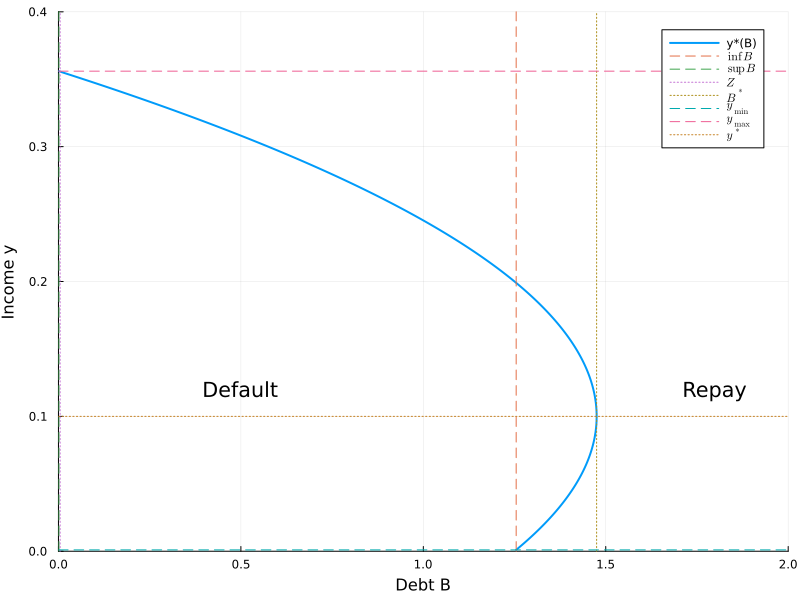
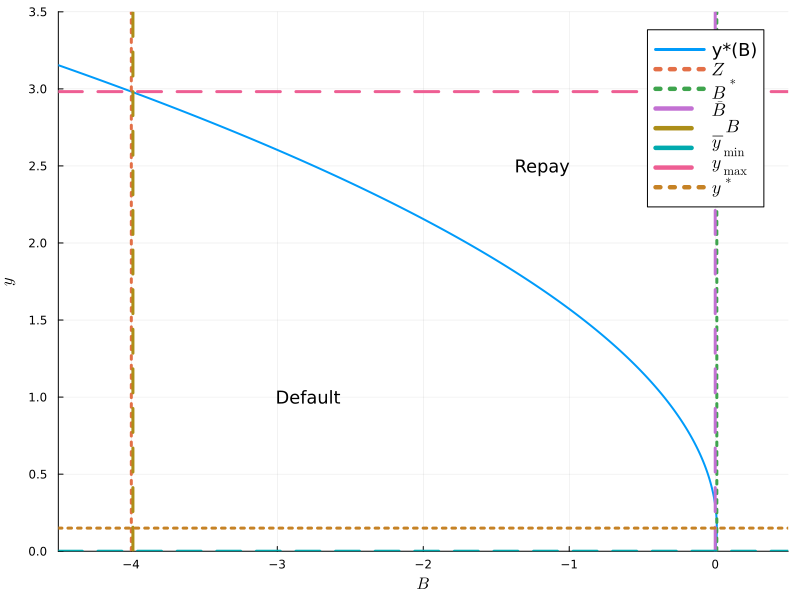
completed pset2

diff --git a/pset2/pset2.tex b/pset2/pset2.tex
@@ -240,14 +240,21 @@
     \item (12 points) Consider the Arellano (2008) model of sovereign default discussed in class. Sketch a 2-D graph that displays the default policy of the government in terms of the default income threshold $y^*(B)$. Your graph should include at least the following description/labels as defined in the lecture: $y^*(B)$, 0, $y$, $B$, $\bar{B}$, $\underline{B}$, $y_{\min}$, $y_{\max}$, $B^*$, $Z$, repayment region, default region.
     \subsubsection*{Solution}
 
+    We plot a $(B \times y)$ figure for the following function $y^*: \mathbb{R}^{\leq 0} \to \mathbb{R}^{\geq 0}$:
+\begin{align*}
+  V^r(B,y) &= 2B + y^2 
+  \\ V^d(y) &= 0.3y
+  \\ y^*(B) &= \frac{1}{2}\left(0.3+\sqrt{(-0.3)^{2}-4\left(2B\right)}\right).
+\end{align*}
     See Figure \eqref{fig:4} for this plot.
     \begin{figure}[h]
             \centering
-                \includegraphics[width=0.9\textwidth]{pset2/q4.png}
+                \includegraphics[width=0.65\textwidth]{pset2/q4.png}
                 \caption{Arellano (2008) - Problem 4}
                 \label{fig:4}
         \end{figure}
 
+    \newpage 
     \item (20 points) The benevolent and strategic government of a small open economy maximizes an expected infinite stream of period utilities from consumption $u(c)$, discounted with a discount factor $\beta = 0.8$. Stochastic endowments $y_t \geq 0$ follow a Markov process with the AR(1) transition rule:
     \[
     f(y_{t+1} \mid y_t): \quad \ln(y_{t+1}) = \rho \ln(y_t) + \sigma_\varepsilon \varepsilon_{t+1},
@@ -263,14 +270,16 @@
         For endowment in $t=1$ as $y$, consumption $c(y)$, and state $s\in \{$repay, default\}, the government's budget constraint is given by:
         \[ c(y,s) = \begin{cases}
             y + B - q(B',y)B' & s=\text{repay}
-            \\ h(y) & s=\text{default}
+            \\ hy & s=\text{default}
         \end{cases} 
         \]
         At the beginning of each period, the government inherits $B<0$ and observes $y$ based on $(B,y)$ decides to repay or default. The value function of the government deciding to repay or default is given by 
         \begin{align*}
             V^o(B,y) &= \max \{V^r(B,y), V^d(y)\}
             \\ V^r(B,y) &= \max_{B' \geq -Z} \left\{u(c(y,s=\text{repay}))+ \beta \int_{y'}  V^o(B',y') f(y' \mid y)dy' \right\}
+            \\&= \max_{B' \geq -Z} \left\{u(y + B - q(B',y)B')+ \beta \mathbb{E}_{y'} \left[  V^o(B',y') \mid y  \right]\right\}
             \\ V^d(y) &=  u(c(y,s=\text{default})) + \beta \int_{y'}  \left[ (1-\theta)V^d(y') + \theta V^o(0,y') \right] f(y' \mid y) dy'
+            \\ &=  u(hy) + \beta\mathbb{E}_{y'}  \left[ (1-\theta)V^d(y') + \theta V^o(0,y') \right] .
         \end{align*}
 
         \item (4 points) Suppose the default threshold $y^*(B)$, at which the government is indifferent between default and repayment in the $(B, y)$-space, is given by $y^*(B) = 5 + \frac{15}{B - 3}$. What is the default probability if the government chooses $B' = -1$ and is currently in state $y = 1.1$?
